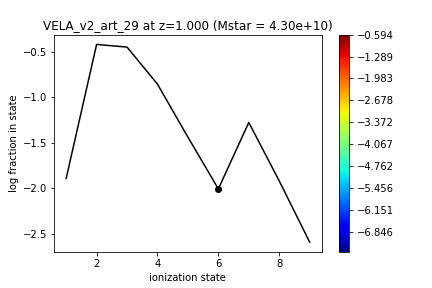
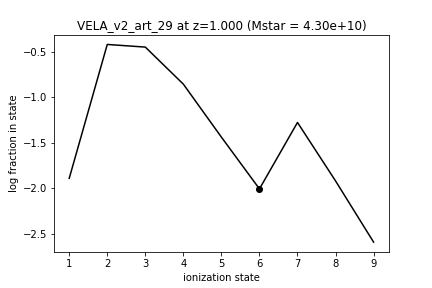
metal species phaseplot script online

diff --git a/metal_species_phaseplot_script.py b/metal_species_phaseplot_script.py
@@ -44,9 +44,9 @@ def get_original_lists(ad,ions):
         myionmasses_old[i,:] = ad[('gas',ion_to_field_name(ion,"mass"))]
         print np.sum(myionmasses_old[i])
 
-    intensives = {0:('gas','mass'),1:('gas','temperature'),2:('gas','density'),3:('gas','cell_volume')}
-    myintensives_old = np.zeros((4,length))
-    for i in [0,1,2,3]:
+    intensives = {0:('gas','mass'),1:('gas','temperature'),2:('gas','density')}
+    myintensives_old = np.zeros((3,length))
+    for i in [0,1,2]:
         print "working on value %s..."%(intensives[i],)
         myintensives_old[i,:] = ad[intensives[i]]
         print np.sum(ad[intensives[i]])
@@ -127,7 +127,7 @@ def get_overall_plot(myionmasses,myintensives,t_bins,rho_bins,ions,log = True,sa
     CS3 = plt.contourf(Z, levels, cmap=mymap)
     plt.clf()
 
-    plt.colorbar(CS3) # using the colorbar info I got from contourf
+    #plt.colorbar(CS3) # using the colorbar info I got from contourf
 
     plt.plot(np.arange(1,len(ions)+1),np.log10(ion_mass_in_each_state/all_O_mass),'k')
     if specialion:
